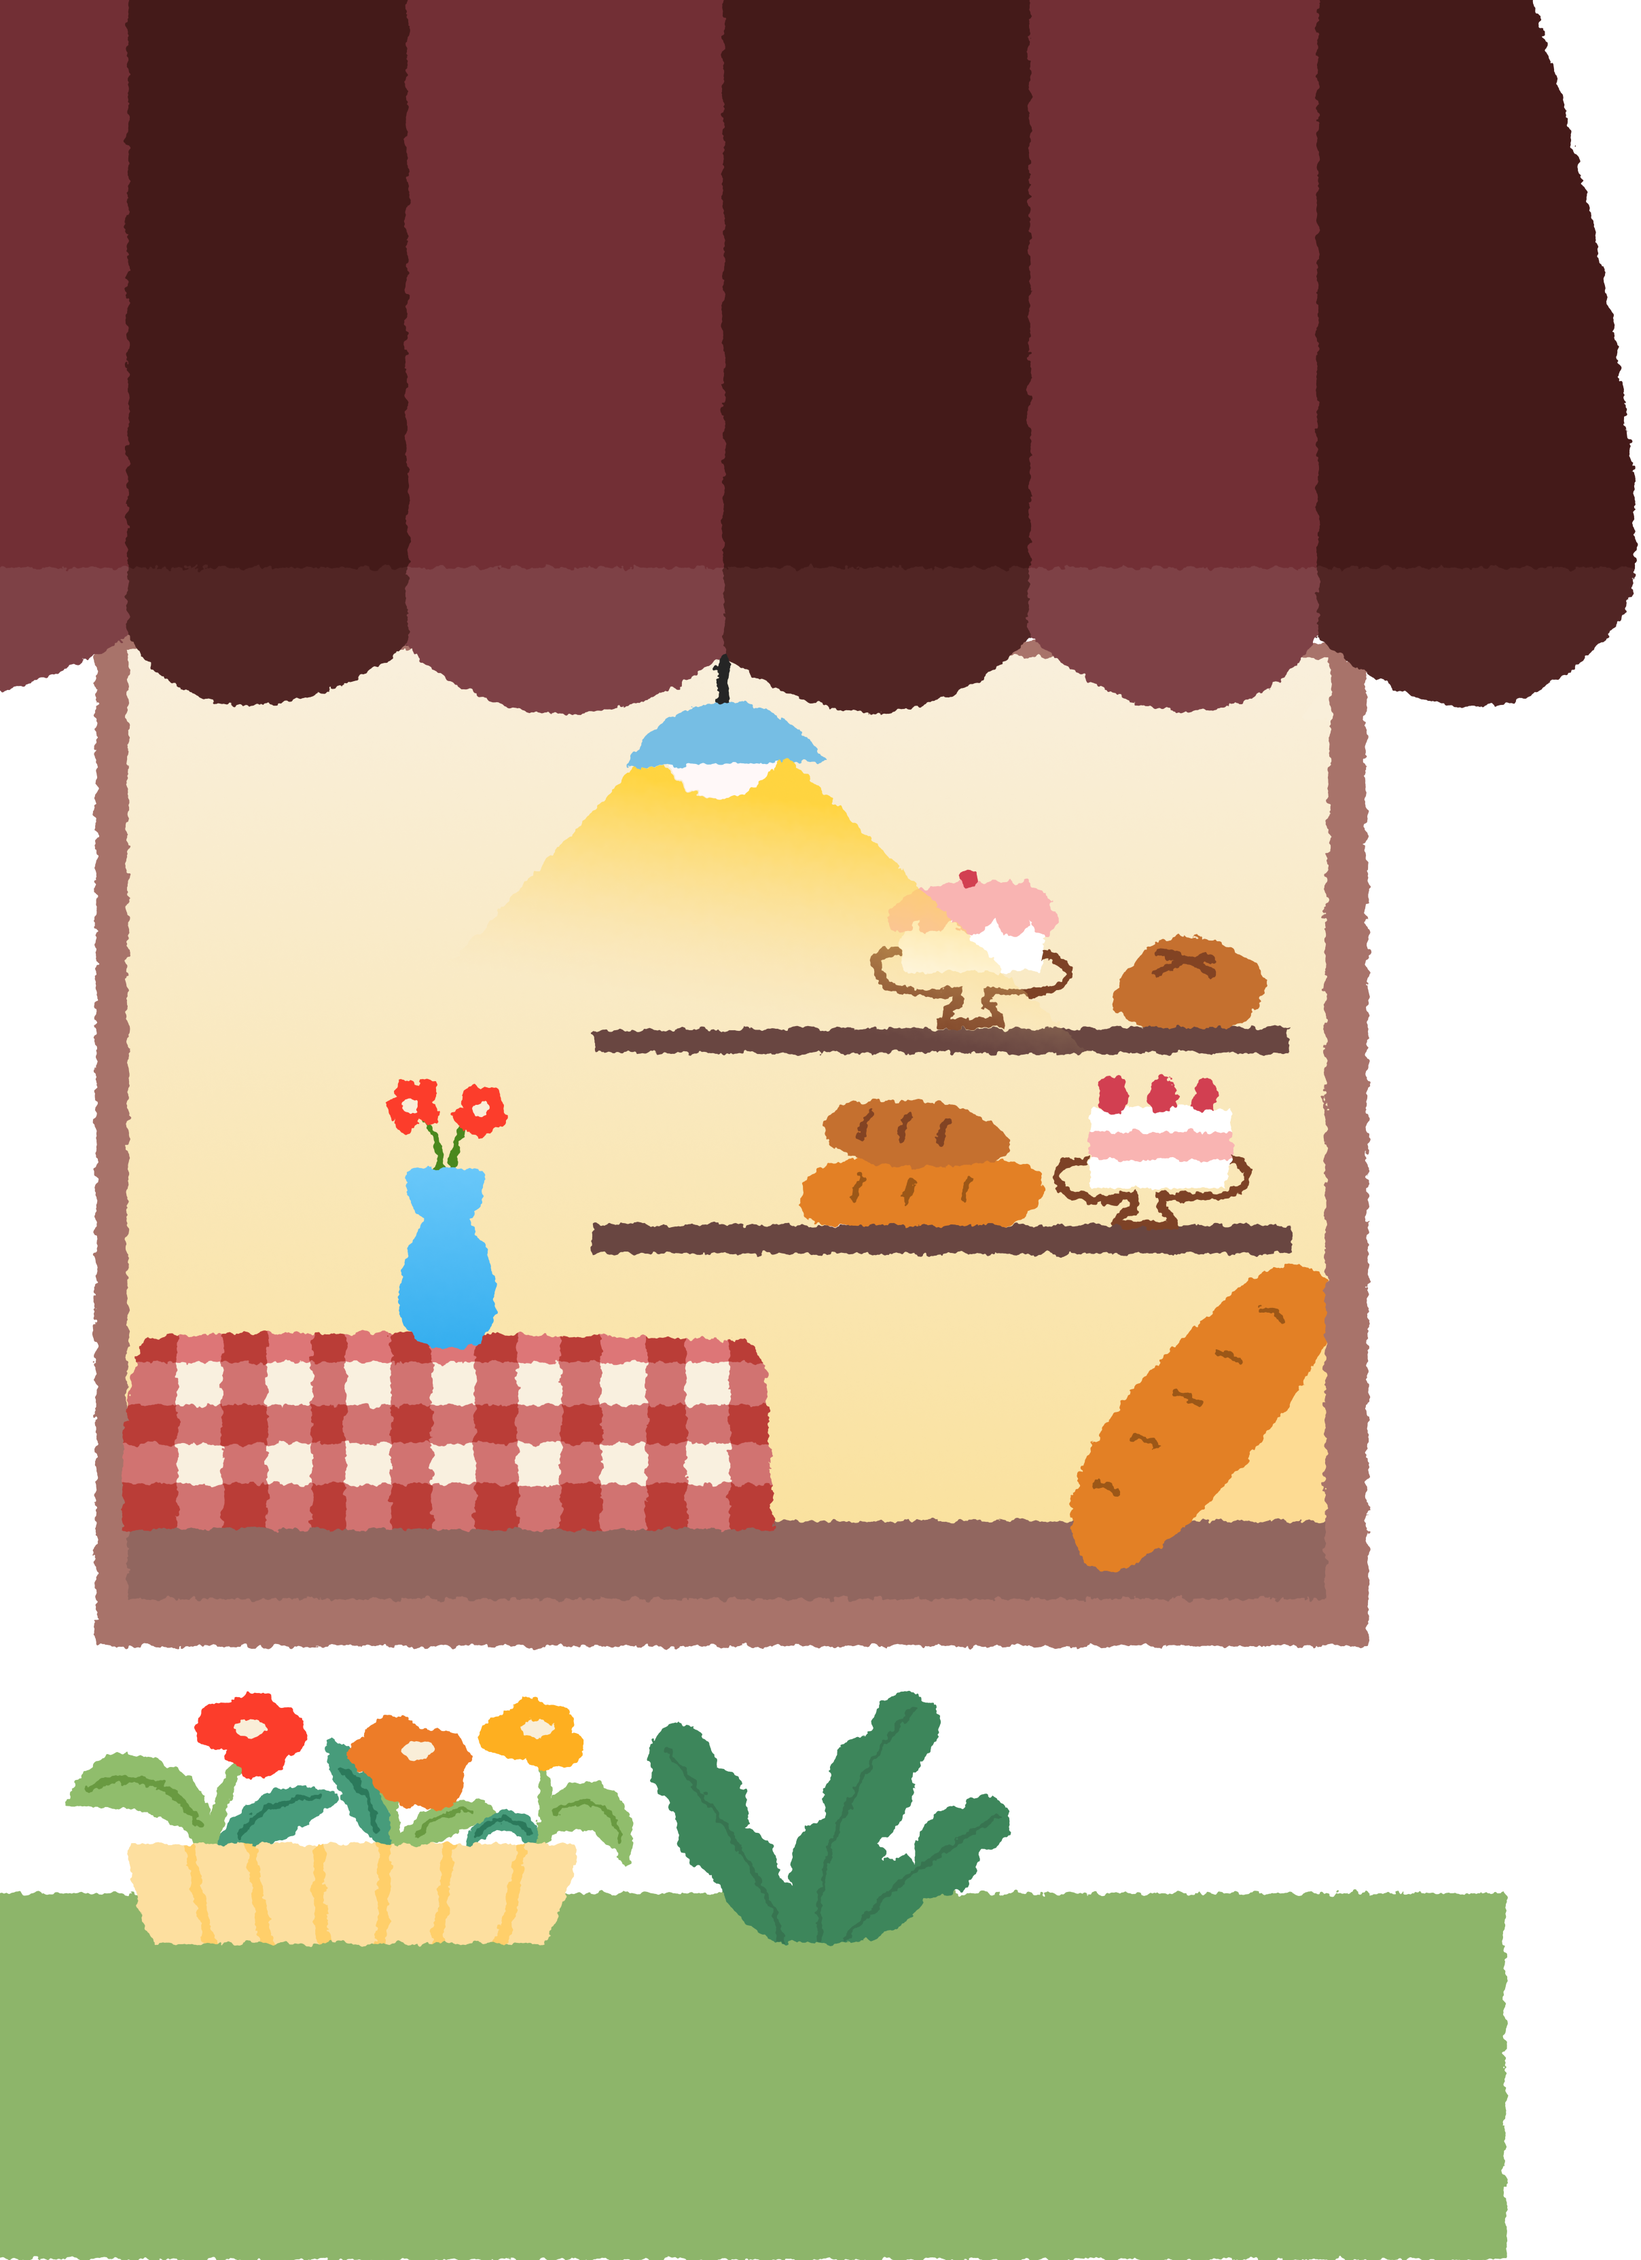
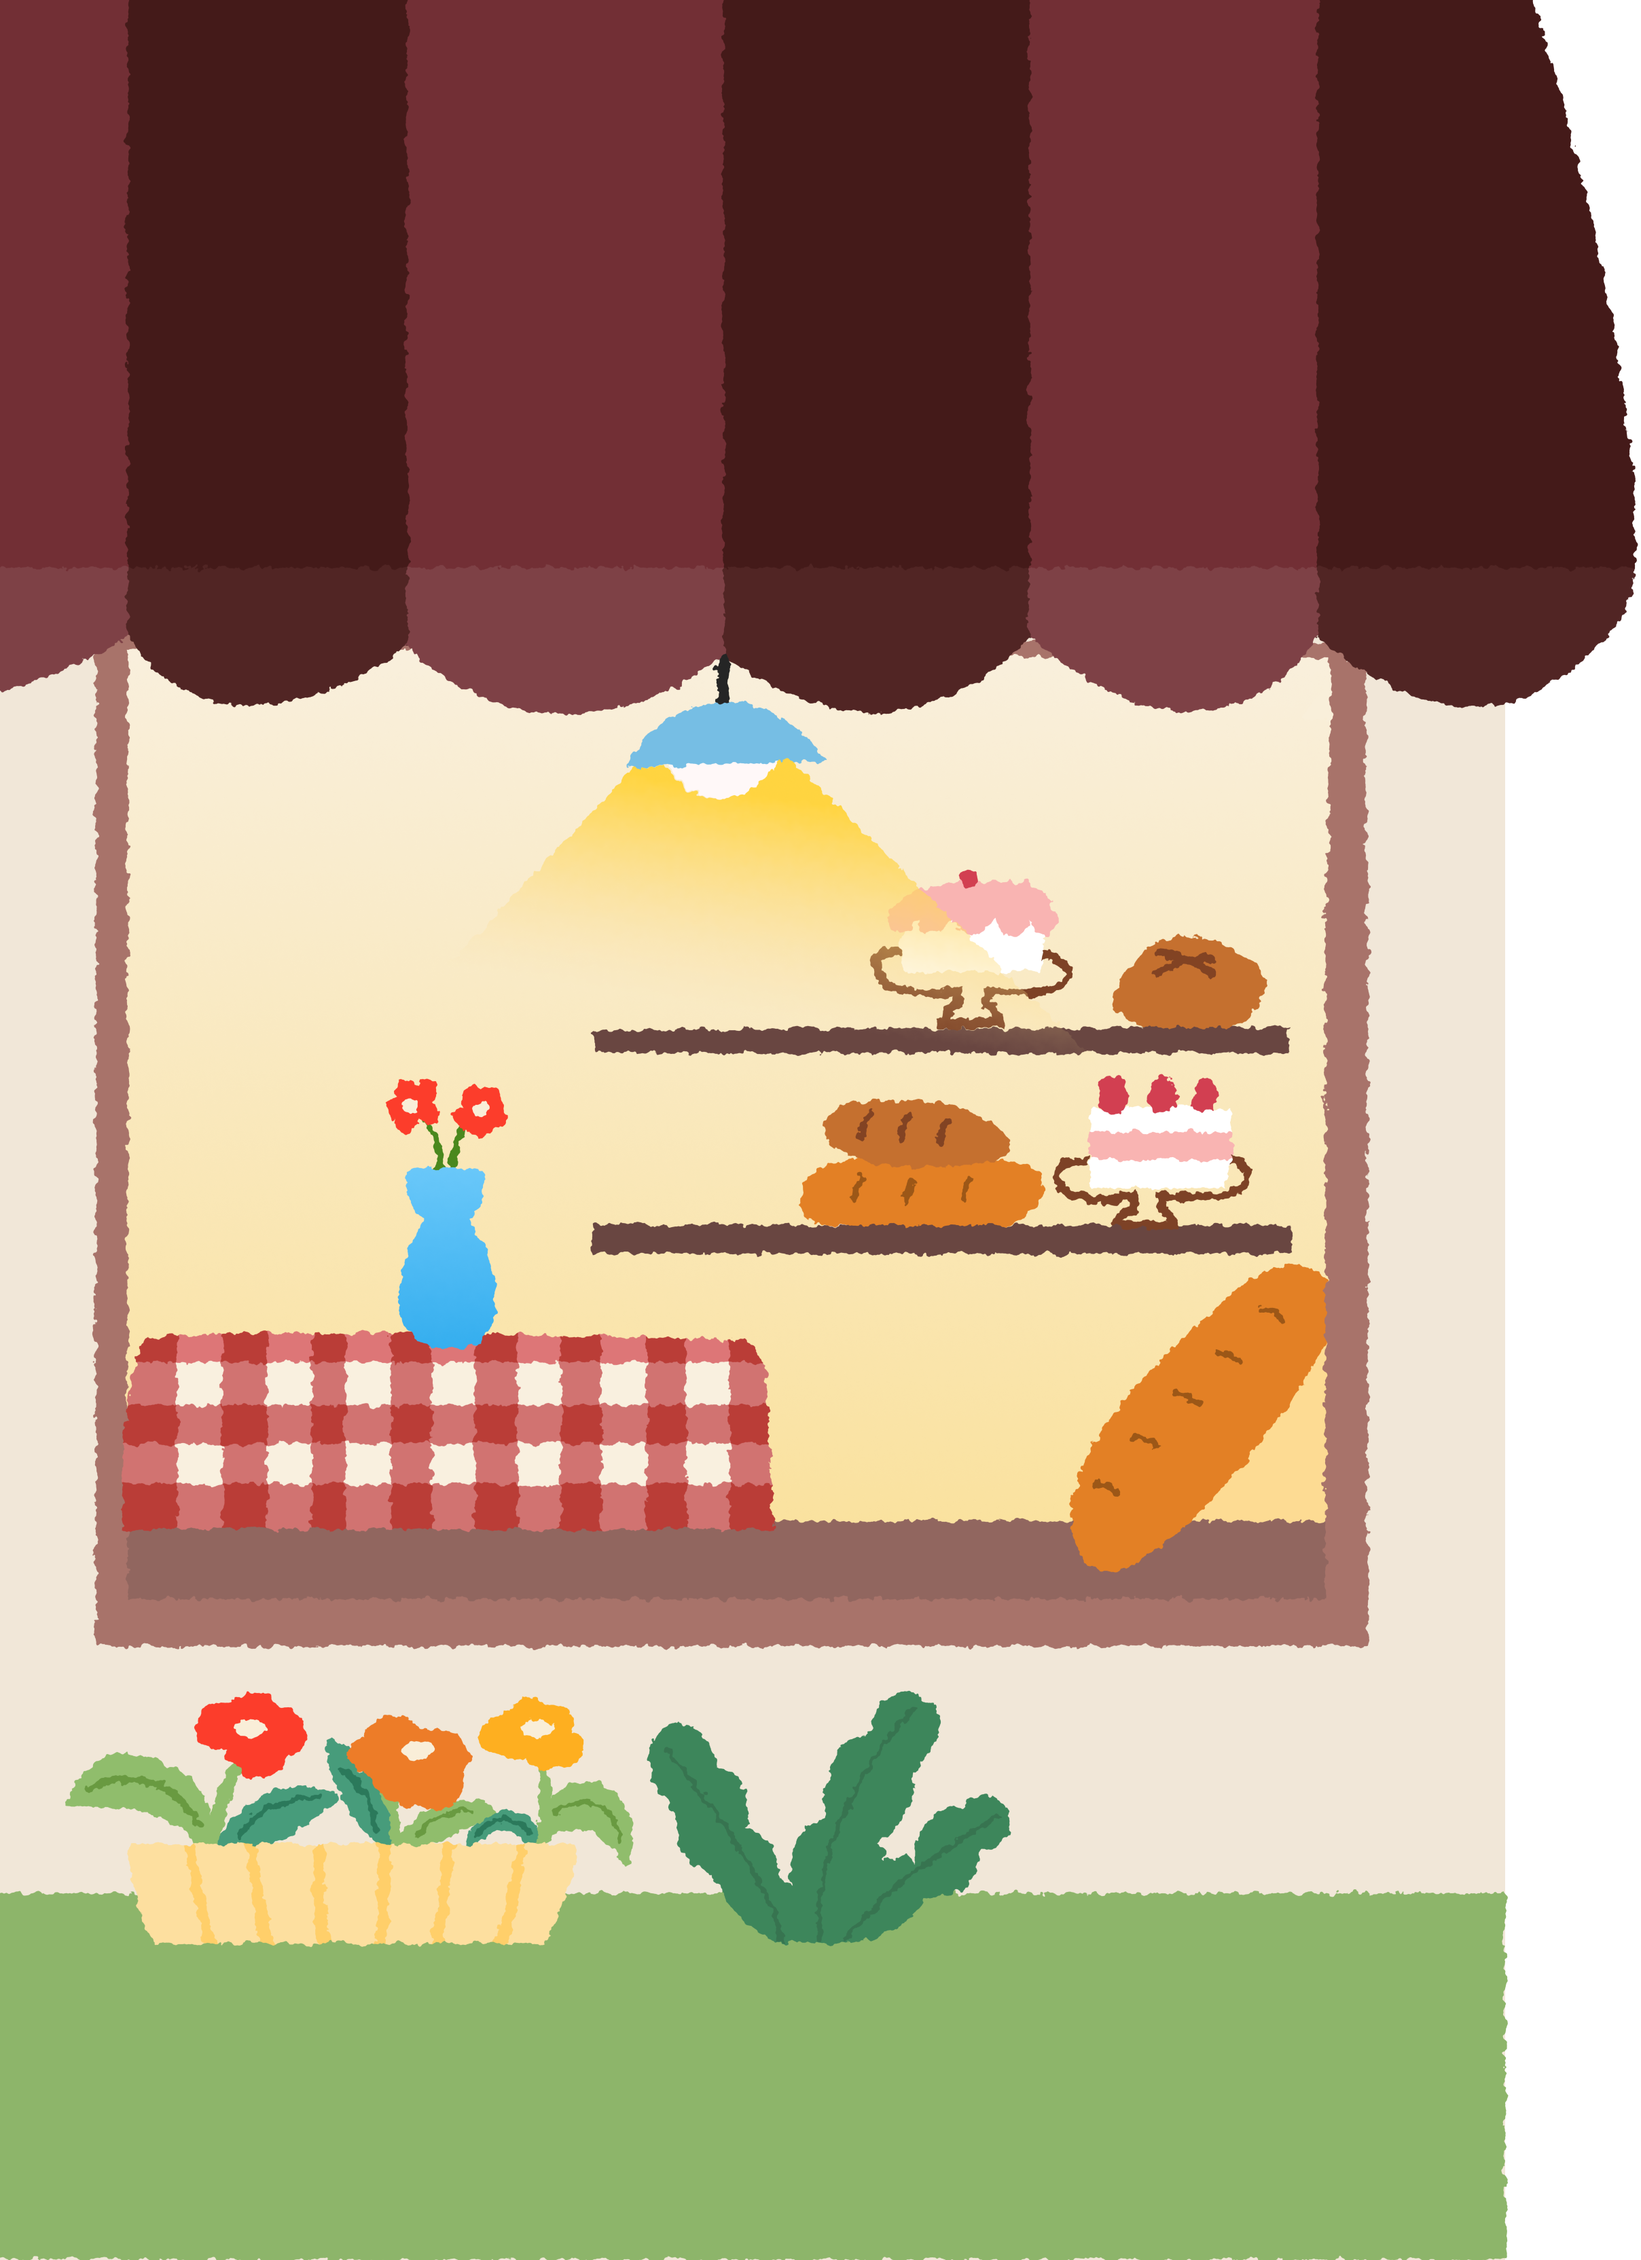
Add project files

Changed region(s): [[0.0, 0.2812, 0.9313, 0.8438]]

diff --git a/css/style.css b/css/style.css
@@ -14,6 +14,119 @@
     src: url('../assets/ZT Formom.ttf') format('truetype');
 }
 
+
+body {
+  min-height: 100vh;
+  background: #f9f0e1; 
+  color: var(--darkchoco);
+  font-family: "ZT Formom", Georgia, "Times New Roman", serif;
+  display: flex;
+  flex-direction: column;
+  overflow: hidden;
+}
+
+/* home page */
+.awning {
+  display: block;
+  width: 100%;
+  height: auto;
+  
+}
+
+.hero {
+  flex: 1;
+  display: flex;
+  flex-direction: column;
+  align-items: center;
+  justify-content: flex-start;
+  padding: clamp(40px, 7vw, 90px) 24px 80px;
+  text-align: center;
+}
+
+.hero__title {
+  margin: 0;
+  font-weight: 400;
+  font-size: clamp(56px, 10.2vw, 150px);   /* semua dekorasi pakai satuan em, jadi ikut skala */
+  line-height: 0.95;
+  letter-spacing: -0.02em;
+}
+
+.line { display: block; }
+
+.word {
+  position: relative;
+  display: inline-block;
+}
+
+
+.deco {
+  position: absolute;
+  pointer-events: none;
+  max-width: none;
+}
+
+
+.deco--yellow {
+  width: 108%;
+  left: -4%;
+  top: -48%;
+  z-index: -1;
+}
+
+
+.deco--green {
+  width: 90%;
+  right: 0;
+  bottom: -30%;
+}
+
+.smiley {
+  display: inline-block;
+  width: 0.5em;
+  height: 0.5em;
+  margin: 0 0.01em;
+  vertical-align: -0.02em;
+}
+
+
+.btn {
+  margin-top: 5rem;
+  display: inline-block;
+  padding: 0.45em 1.5em;
+  font-family: inherit;
+  font-size: clamp(22px, 2.8vw, 34px);
+  color: var(--white);
+  text-decoration: none;
+  background: linear-gradient(90deg, var(--mocca), var(--darkchoco));
+  border: 3px solid var(--mocca);
+  border-radius: 8px;
+  transition: transform 0.15s ease, filter 0.15s ease;
+}
+
+ 
+* { margin: 0; padding: 0; box-sizing: border-box; }
+
+/* end home page */
+
+
+/* sign up page */
+
+:root {
+  --brown: #512524;
+  --mocca: #7E4146; 
+  --gold: #E2B95F;
+  --matcha: #8DB56A;
+  --darkchoco: #2F0E0D;
+  --orange: #E38025;
+  --blue: #46B7F2;
+  --white: #fff;
+}
+
+@font-face {
+    font-family: 'ZT Formom';
+    src: url('../assets/ZT Formom.ttf') format('truetype');
+}
+
 /* home page */
 
 body {
@@ -113,12 +226,11 @@ body {
 /* sign up page */
 
 .page {
-  /* warna khusus sign up (dipasang di sini biar :root kamu tetap utuh) */
+  overflow: hidden;
   --field-bg: #efe5d9;
   --field-border: #e2d5c4;
   --muted: #a39484;
   --outline: #a89a88;
-
   display: grid;
   grid-template-columns: 47.5fr 52.5fr;
   grid-template-rows: minmax(0, 1fr);
@@ -127,7 +239,6 @@ body {
   font-family: "Inter", system-ui, -apple-system, "Segoe UI", Arial, sans-serif;
 }
 
-/* kiri: gambar cafe */
 .visual {
   position: relative;
   overflow: hidden;
@@ -140,48 +251,47 @@ body {
   width: 100%;
   height: 100%;
   object-fit: cover;
-  object-position: top center;
 }
 
-/* kanan: form (scroll sendiri kalau layar pendek, karena body overflow hidden) */
+/* ukuran vertikal pakai vh, jadi form menyusut mengikuti tinggi layar dan tidak perlu scroll */
 .panel {
   display: flex;
-  overflow-y: auto;
-  padding: clamp(24px, 4vw, 56px);
+  overflow: hidden;
+  padding: clamp(16px, 3vh, 40px) clamp(24px, 4vw, 56px);
 }
 
 .panel__inner {
   width: 100%;
-  max-width: 630px;
+  max-width: 520px;
   margin: auto;
 }
 
 .title {
-  margin-bottom: clamp(20px, 3vw, 44px);
+  margin-bottom: clamp(10px, 2.6vh, 28px);
   text-align: center;
   font-family: "ZT Formom", Georgia, "Times New Roman", serif;
   font-weight: 400;
-  font-size: clamp(64px, 7.8vw, 116px);
+  font-size: clamp(44px, 9.5vh, 88px);
   line-height: 1;
   letter-spacing: -0.02em;
 }
 
-.field { margin-bottom: 14px; }
+.field { margin-bottom: clamp(8px, 1.6vh, 14px); }
 
 .field label {
   display: block;
-  margin-bottom: 8px;
+  margin-bottom: 6px;
   font-family: "ZT Formom", Georgia, serif;
-  font-size: clamp(22px, 2vw, 28px);
+  font-size: clamp(18px, 3vh, 24px);
   line-height: 1;
 }
 
 .field input {
   width: 100%;
-  height: 54px;
-  padding: 0 22px;
+  height: clamp(40px, 6.4vh, 50px);
+  padding: 0 18px;
   font: inherit;
-  font-size: 17px;
+  font-size: clamp(14px, 2vh, 16px);
   color: var(--darkchoco);
   background: var(--field-bg);
   border: 2px solid var(--field-border);
@@ -197,10 +307,10 @@ body {
 
 .btn-primary {
   width: 100%;
-  height: 68px;
-  margin-top: 14px;
+  height: clamp(46px, 7.4vh, 60px);
+  margin-top: clamp(10px, 1.8vh, 16px);
   font-family: "ZT Formom", Georgia, serif;
-  font-size: clamp(24px, 2.2vw, 32px);
+  font-size: clamp(20px, 3.4vh, 28px);
   color: var(--white);
   cursor: pointer;
   background: linear-gradient(90deg, var(--mocca), var(--darkchoco));
@@ -215,9 +325,9 @@ body {
 }
 
 .login-text {
-  margin: 24px 0 18px;
+  margin: clamp(12px, 2.4vh, 20px) 0 clamp(10px, 2vh, 16px);
   text-align: center;
-  font-size: 17px;
+  font-size: 15px;
   color: var(--muted);
 }
 
@@ -230,11 +340,11 @@ body {
 .divider {
   display: flex;
   align-items: center;
-  gap: 16px;
+  gap: 14px;
   width: 82%;
-  margin: 0 auto 26px;
+  margin: 0 auto clamp(12px, 2.4vh, 20px);
   color: var(--muted);
-  font-size: 17px;
+  font-size: 15px;
 }
 
 .divider::before,
@@ -249,11 +359,11 @@ body {
   display: flex;
   align-items: center;
   justify-content: center;
-  gap: 18px;
+  gap: 14px;
   width: 100%;
-  height: 76px;
+  height: clamp(46px, 8vh, 64px);
   font: inherit;
-  font-size: 19px;
+  font-size: clamp(15px, 2.2vh, 17px);
   font-weight: 600;
   letter-spacing: -0.01em;
   color: var(--darkchoco);
@@ -268,13 +378,12 @@ body {
   outline-offset: 3px;
 }
 
-.btn-google img { display: block; }
-
-@media (max-width: 800px) {
-  .page {
-    grid-template-columns: 1fr;
-    grid-template-rows: 240px minmax(0, 1fr);
-  }
+.btn-google img {
+  display: block;
+  width: clamp(22px, 3.6vh, 30px);
+  height: auto;
 }
+
+
 
 /* end sign up page */

diff --git a/sign-up.html b/sign-up.html
@@ -6,7 +6,7 @@
   <title>Sign Up</title>
     <link rel="stylesheet" href="css/style.css">
 </head>
-<body>
+<body class="body-signup">
 
   <div class="page">
 
